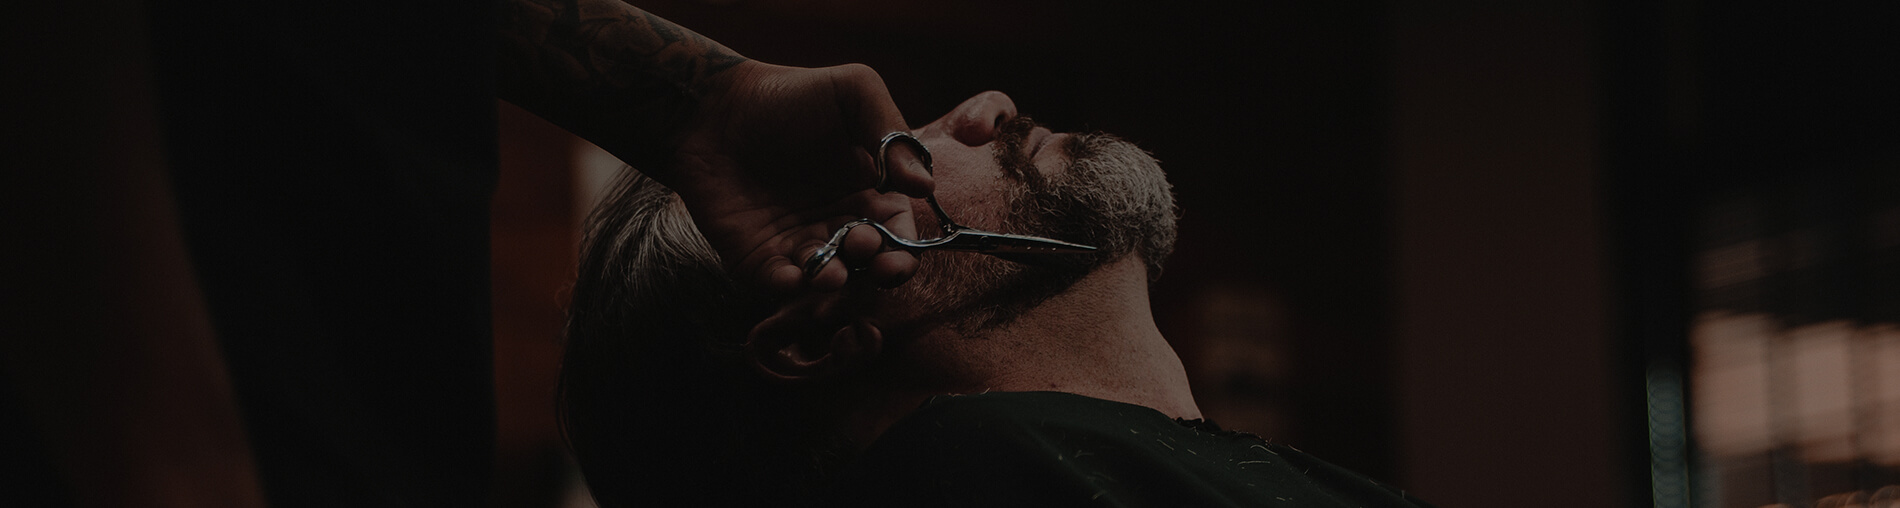
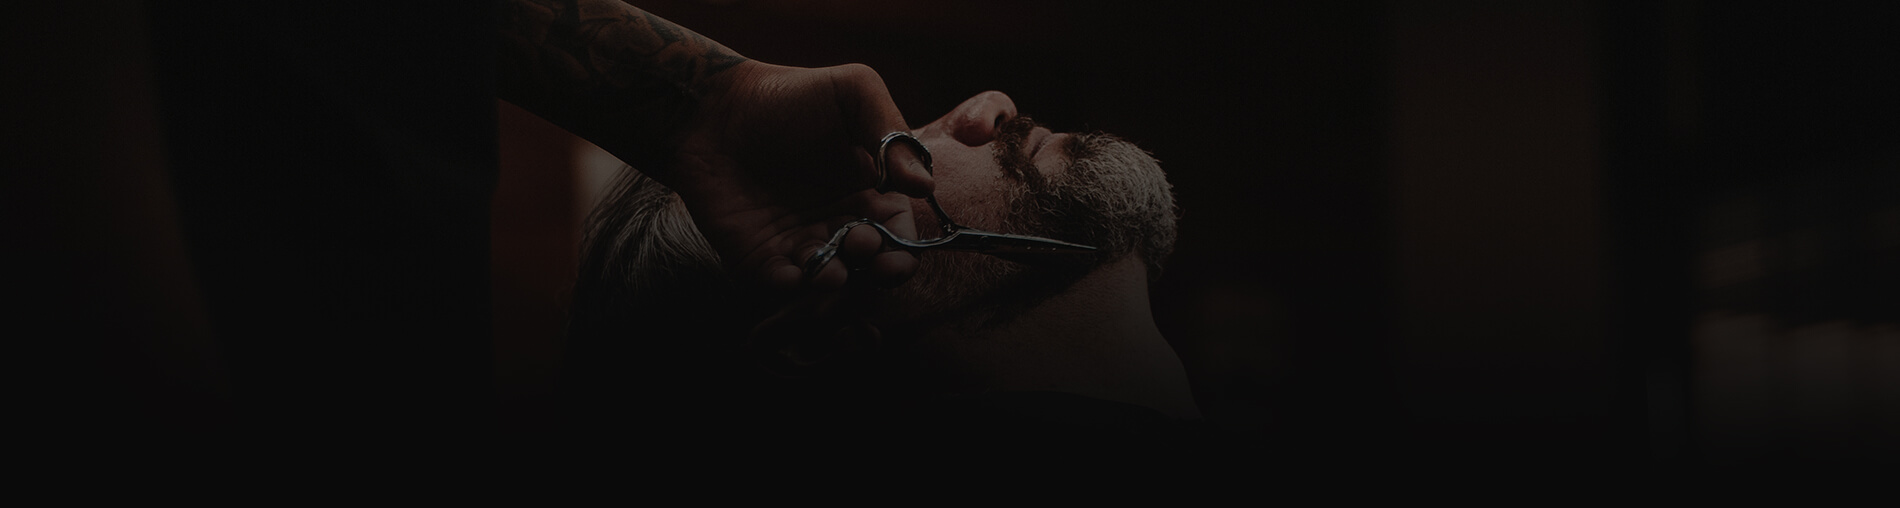
Update footer images and background styles

diff --git a/docs/styles.css b/docs/styles.css
@@ -397,7 +397,12 @@ section {
       font-size: 0.85rem; } }
 
 .about {
-  padding: 20px; }
+  padding: 20px;
+  padding-bottom: 200px;
+  margin-bottom: -160px;
+  background-image: url("./img/bgs/about-s.jpg");
+  background-size: cover;
+  background-position: center center; }
   @media (min-width: 700px) {
     .about {
       padding: 40px;
@@ -784,7 +789,10 @@ section {
 
 .footer {
   padding: 20px;
-  padding-top: 50px; }
+  padding-top: 50px;
+  background-image: url("./img/bgs/footer-s.jpg");
+  background-size: cover;
+  background-position: center center; }
 
 .footer__brand-n-nav {
   display: flex;

diff --git a/src/scss/modules/_about.scss b/src/scss/modules/_about.scss
@@ -1,6 +1,13 @@
 .about {
     // box model
     padding: 20px;
+    padding-bottom: 200px;
+    margin-bottom: -160px;
+
+    // visual
+    background-image: url('./img/bgs/about-s.jpg');
+    background-size: cover;
+    background-position: center center;
 
     @include atTablet {
         // box model

diff --git a/src/scss/modules/_footer.scss b/src/scss/modules/_footer.scss
@@ -2,6 +2,11 @@
     // box model
     padding: 20px;
     padding-top: 50px;
+
+    // visual
+    background-image: url('./img/bgs/footer-s.jpg');
+    background-size: cover;
+    background-position: center center;
 }
 
 .footer__brand-n-nav {
